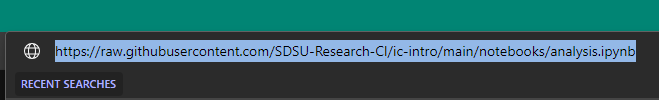
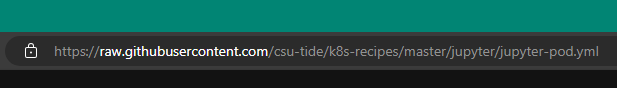
Updated for TIDE

diff --git a/README.md b/README.md
@@ -1,6 +1,6 @@
 # Kubernetes (k8s) Recipes
 This repository is a collection of "recipes" to accomplish specific tasks via containers run on Kubernetes-based systems.
-This repo aims to increase the accessibility and usability of the compute resources available on [VERNE](https://sdsu-research-ci.github.io/instructionalcluster) and the larger National Research Platform Nautilus.
+This repo aims to increase the accessibility and usability of the compute resources available on [TIDE](https://csu-tide.github.io/) and the larger National Research Platform Nautilus.
 
 ## Context for Containers and Kubernetes
 If you are not familiar with them, software containers are software applications that have been packaged with all of their dependencies which includes the operating system, runtime environment and libraries. Containers allow for isolated runtime environments, consistent & reproducible execution, and portability from desktop to cluster or cloud. Containers are like virtual machines (VMs), but smaller and optimized to the software application.
@@ -8,44 +8,29 @@ If you are not familiar with them, software containers are software applications
 [Kubernetes](https://kubernetes.io/), often shortened to 'k8s', is a container orchestration platform that runs many containers at scale. Kubernetes manages each container's compute needs including CPUs, GPUs, memory, storage and networking. Kubernetes is like the operating system for containers. Kubernetes provides 'kubectl', a commandline tool for interacting with Kubernetes-based systems. Since Kubernetes is like the operating system, then kubectl is its commandline shell.
 
 ## Prerequisites
-Before you begin using these recipes, you must have access to VERNE and be added to a namespace. 
-We have [written instructions for getting access](https://sdsu-research-ci.github.io/softwarefactory/gettingaccess) and an accompanying [video walkthrough](https://mediasite.sdsu.edu/Mediasite/Play/8e7f235bc56f44fdb4586cffe1e477a71d).
-The request process should require 10 minutes of your time, and should be approved within a business day by Research and Cyberinfrastructure.
+Before you begin using these recipes, you must have access to TIDE and be added to a namespace. 
+Please follow the [instructions for getting access](https://csu-tide.github.io/containerization/gettingaccess).
+The request process should require 10 minutes of your time, and should be approved within a business day by TIDE Support team.
 
-We highly recommend following our [getting started guide](https://sdsu-research-ci.github.io/softwarefactory/gettingstarted) which will walk you through a "Hello World"-like example to give you some familiarity for working with Kubernetes via kubectl. 
+We highly recommend following our [quickstart guide](https://csu-tide.github.io/containerization/quickstart) which will walk you through a "Hello World"-like example to give you some familiarity for working with Kubernetes via kubectl. 
 This guide should require 30 minutes of your time to complete.
-Should you run into any issues while following the guide, please send us an email at itd-research.ci@sdsu.edu.
+Should you run into any issues while following the guide, please send us an email at csu-tide-support@sdsu.edu.
 
 The recipes in this repository assume that you have familiarity with the following:
 - Linux
 - Commandline
 - Git
 
-## Interacting with Kubernetes
-Below we provide two options for interacting with Kubernetes:
-- Using JupyterHub on VERNE
-- Using your local machine
-
-Using JupyterHub on VERNE is an attractive choice when first approaching Kubernetes and kubectl because it is pre-configured and allows for a short time-to-productivity.
-
-Once you are familiar with kubectl, we recommend downloading it and installing it on your local machine.
-
-### Using JupyterHub on VERNE
-Research and Cyberinfrastructure maintains a Kube Notebook container image which comes with kubectl pre-installed.
-If you completed the getting started guide, then you should already be familiar with this option.
-You can refer to these directions for [selecting and configuring the Kube Notebook image](https://sdsu-research-ci.github.io/softwarefactory/gettingstarted#starting-a-kube-notebook) on [jupyterhub.sdsu.edu](jupyterhub.sdsu.edu).
-
-### Using Your Local Machine
-Installing kubectl on your local machine will allow you to use all of its available options.
-Some recipes may require a local installation of kubectl and will list that in the ingredients section.
+## Install Kubectl
+Kubectl is the commandline tool for interacting with a Kubernetes cluster.
 Please follow the [official directions for installing kubectl](https://kubernetes.io/docs/tasks/tools/#kubectl) and select your operating system.
 When you come to the step "Verify kubectl configuration" you will need your kube config file.
-You should have downloaded this file and followed the set up in the getting access directions under the [NRP Portal tasks](https://sdsu-research-ci.github.io/softwarefactory/gettingaccess#nrp-portal-tasks) section.
+You should have downloaded this file and followed the set up in the getting access directions under the [NRP Portal tasks](https://csu-tide.github.io/containerization/gettingaccess#nrp-portal-tasks) section.
 If you did not do that, please do so prior to attempting to verify your kubectl installation.
-Should you run into any issues installing kubectl, please send us an email at itd-research.ci@sdsu.edu.
+Should you run into any issues installing kubectl, please send us an email at csu-tide-support@sdsu.edu.
 
 ## Getting the Recipes
-Each of the recipes will assume that you have a copy of the recipe. Below are two options for getting copies of the recipes.
+Each of the recipes will assume that you have a copy of the recipe downloaded. Below are two options for getting copies of the recipes.
 
 ### Cloning (or Forking) this Repo
 You can clone this entire repo if you would like to have a copy of all the recipes. You can then periodically perform a `git fetch` to check for updates, and you can download the updates with a `git pull`.
@@ -55,7 +40,7 @@ To clone this repo just follow these steps:
 1. Via commandline, navigate to where you want to clone this repo
 1. Run the following command:
     ```bash
-    git clone https://github.com/SDSU-Research-CI/k8s-recipes.git
+    git clone https://github.com/csu-tide/k8s-recipes.git
     ```
 1. Verify that you successfully cloned the repo with `git status`:
     ```bash
@@ -77,11 +62,11 @@ Just need one specific file? No problem! Just follow these steps to get one file
 1. Use an http client to download the file
     - Example using curl
         ```bash
-        curl -O https://raw.githubusercontent.com/SDSU-Research-CI/ic-intro/main/notebooks/analysis.ipynb
+        curl -O https://raw.githubusercontent.com/csu-tide/k8s-recipes/master/jupyter/jupyter-pod.yml
         ```
     - Example using wget
         ```bash
-        wget https://raw.githubusercontent.com/SDSU-Research-CI/ic-intro/main/notebooks/analysis.ipynb
+        wget https://raw.githubusercontent.com/csu-tide/k8s-recipes/master/jupyter/jupyter-pod.yml
         ```
 1. Make sure that the file downloaded successfully with `ls -la`:
     ```bash
@@ -89,5 +74,5 @@ Just need one specific file? No problem! Just follow these steps to get one file
     total 88
     drwxr-xr-x  5 kkrick kkrick  4096 Oct 18 14:27 .
     drwxr-xr-x 20 kkrick kkrick  4096 Oct 11 08:10 ..
-    -rw-r--r--  1 kkrick kkrick 64110 Oct 18 14:27 analysis.ipynb
+    -rw-r--r--  1 kkrick kkrick 64110 Oct 18 14:27 jupyter-pod.yml
     ```

diff --git a/jupyter/jupyter.md b/jupyter/jupyter.md
@@ -1,10 +1,10 @@
 # Interactive Jupyter Lab
 This recipe schedules an interactive Jupyter Lab session on VERNE.
 This is useful when you need a long-running Jupyter instance and need to quickly change the resource allocations (i.e. CPUs, GPUs, and memory).
-By default, a pod is allowed to run for 6 hours, if you need to run for longer than that please email us at itd-research.ci@sdsu.edu.
+By default, a pod is allowed to run for 6 hours, if you need to run for longer than that please email us at csu-tide-support@sdsu.edu.
 
 ## Ingredients
-- [Local installation of kubectl](../README.md#using-your-local-machine)
+- [Local installation of kubectl](../README.md#install-kubectl)
 - Jupyter container image
 - Jupyter Notebook (optional)
 - Two terminal tabs
@@ -17,7 +17,7 @@ By default, a pod is allowed to run for 6 hours, if you need to run for longer t
     - Windows (PowerShell)
         - `$ns="[your-namespace-here]"`
     - *Note*: Make sure to remove the brackets '[' & ']'
-1. Browse the [available container images](https://sdsu-research-ci.github.io/instructionalcluster/images) to see what software you want to run
+1. Browse the [available container images](https://csu-tide.github.io/jupyterhub/images) to see what software you want to run
 1. Edit the file `jupyter-pod.yml` and replace the value for the `image:` line with the url of your chosen container image
 
 ## Instructions
